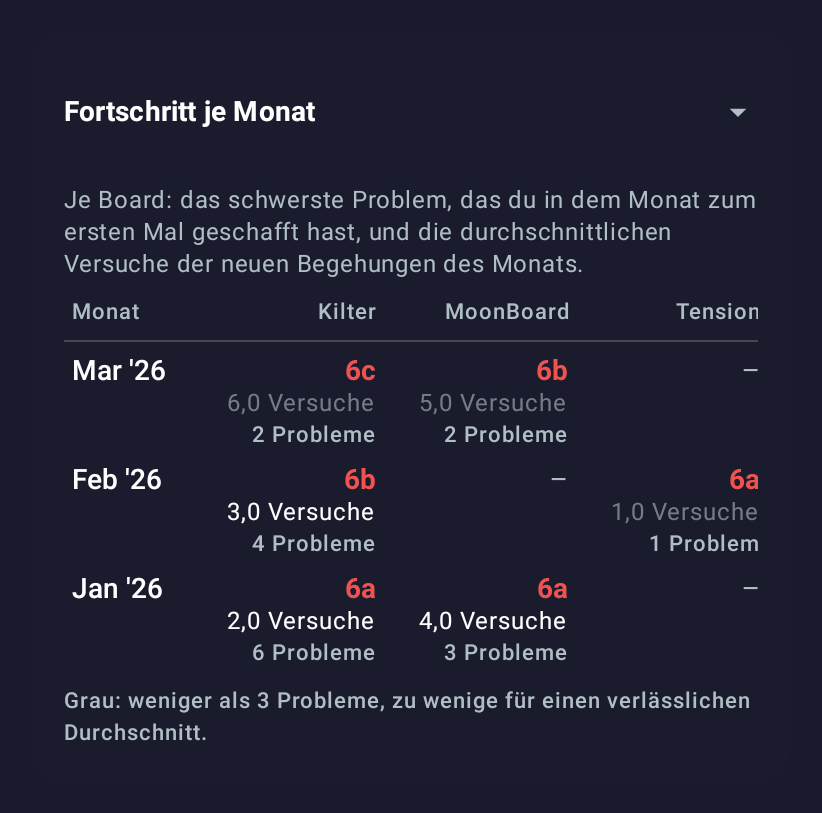
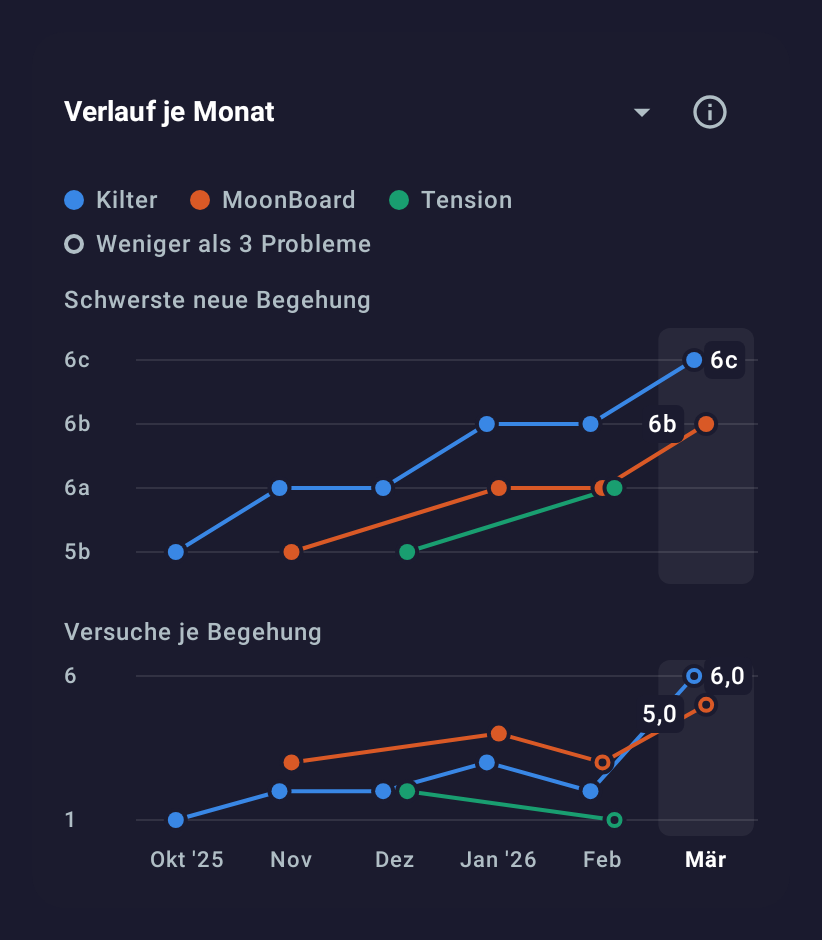
feat-0.2.5-analytics: stats across boards second version, ideas for the statistics

diff --git a/feat-0.2.5-analytics/2026-11-01-stats-across-boards.md b/feat-0.2.5-analytics/2026-11-01-stats-across-boards.md
@@ -1,23 +1,37 @@
-# Stats across boards: first version (2026-11-01)
+# Stats across boards: second version (2026-11-01)
 
-Issue: [#44 Cross-board stats](https://github.com/CruxCoach/CruxCoach/issues/44) · branch `feat/0.2.5-analytics` · draft pull request against `feat/0.2.5-release`
+Issue: [#44 Cross-board stats](https://github.com/CruxCoach/CruxCoach/issues/44) · branch `feat/0.2.5-analytics` · draft pull request [#48](https://github.com/CruxCoach/CruxCoach/pull/48) against `feat/0.2.5-release`
 
-If you log on more than one board, the logbook statistics get a new section below the charts. A selector in its title switches between two views. The stills below come from the design-review test: a German phone in the dark theme, with a made-up logbook on three boards.
+If you log on more than one board, the logbook statistics get a new section below the charts. A selector in its title switches between two views. The second version replaces the tables of the first one with charts and moves the explanations behind the info button next to the title.
 
-## Tries to send per grade
+The stills come from the design-review test: a German phone, with a made-up logbook on three boards. Further ideas for the statistics are in a [separate report](2026-11-01-stats-ideas.md).
 
-![Tries to send per grade](2026-11-01-tries-per-grade.png)
+## Tries per grade
 
-- One row per grade and one column per board.
-- Each cell shows the average tries until a problem was sent for the first time, and the number of problems behind it.
-- Averages over fewer than 3 problems are grey, because they say little.
+| Dark | A grade tapped | Light |
+|---|---|---|
+| ![Tries per grade](2026-11-01-tries-per-grade.png) | ![A grade tapped](2026-11-01-tries-per-grade-open.png) | ![Light theme](2026-11-01-tries-per-grade-light.png) |
 
-## Progress per month
+- One bar per board under each grade; its length is the average tries until the first send, the number sits at its end.
+- A board without sends at that grade gets no bar.
+- Hollow bars rest on fewer than 3 problems and say little.
+- Tap a grade to see how many problems are behind each bar.
 
-![Progress per month](2026-11-01-per-month.png)
+## Progress by month
 
-- Per month and board: the hardest problem sent for the first time that month, then the average tries of that month's new sends.
-- Newest month first.
+| Dark | Light |
+|---|---|
+| ![Progress by month](2026-11-01-per-month.png) | ![Light theme](2026-11-01-per-month-light.png) |
+
+- Two small line charts over the same months, oldest on the left: the hardest problem sent for the first time that month, and how many tries those new sends took on average.
+- The latest month is selected and its values stand beside the dots. Tap another month to see its values.
+- Hollow dots rest on fewer than 3 problems.
+
+## Design
+
+- Each board keeps one colour everywhere in the section, also when the interval hides another board. The colours stay apart for the common kinds of colour blindness and in both themes.
+- The legend sits once at the top; the hollow marker only shows up in it when the chart has such values.
+- Screen readers get every value spelled out per grade or month.
 
 ## How it counts
 
@@ -25,7 +39,7 @@ If you log on more than one board, the logbook statistics get a new section belo
 - Its tries are all attempts up to and including the first send. If you log a few attempts and then the send in one session, the app keeps them as one entry with the try count. Attempts from earlier sessions are added to it.
 - Repeats after the first send do not count. They say nothing about how hard the grade felt on that board.
 - The interval chips (30 days, 90 days, 1 year, all, custom) pick problems by the day of their first send. Tries from before the interval still count.
-- All boards in CruxCoach share one difficulty scale, so a grade means the same on every board in this table.
+- All boards in CruxCoach share one difficulty scale, so a grade means the same on every board.
 - The section ignores the board filter, like the board comparison row above it. It appears only when two boards have sends in the interval.
 - It works with the logbook you already have, without a database change.
 

diff --git a/feat-0.2.5-analytics/2026-11-01-stats-ideas.md b/feat-0.2.5-analytics/2026-11-01-stats-ideas.md
@@ -1,0 +1,75 @@
+# Ideas for the statistics (2026-11-01)
+
+Room: #feat-0.2.5-analytics · issue [#44](https://github.com/CruxCoach/CruxCoach/issues/44)
+
+Ideas for making the logbook statistics more useful and easier to read, each described by what it does. The pictures are drawings from a design test with made-up data on a German phone. They are **not in the app** and not in the pull request; they show how an idea could look.
+
+The redesigned views for #44 itself are in the [second-version report](2026-11-01-stats-across-boards.md).
+
+## The design rules behind them
+
+- Each board has one colour, the same in every chart.
+- Numbers sit at the marks; no tables and no axis you have to read off.
+- A chart explains itself with its title. The longer explanation sits behind the info button.
+- Hollow marks mean little data behind a value.
+- Tap for details instead of showing everything at once.
+
+## 1. At a glance
+
+![At a glance](2026-11-01-idea-at-a-glance.png)
+
+- Two big tiles at the top of the statistics: hardest send and hardest flash, with the board's colour dot.
+- Below: this month against last month for sends, hardest grade and tries per send, each with an arrow. Green means better, so fewer tries per send is green too.
+- The app already computes most of this; today the period comparison hides in a dropdown further down.
+- Effort: small.
+
+## 2. Tries until the send
+
+![Tries until the send](2026-11-01-idea-send-curve.png)
+
+- Per board, the share of problems you sent as a flash, on the 2nd try, 3rd try, 4th–5th and after 6 or more.
+- Counts tries across sessions, so a send after attempts on an earlier day is not a flash.
+- Shows at a glance on which board you send fast and where you work for it. Fits as a third view in the section of #44.
+- Effort: small; it uses the same counting as #44.
+
+## 3. How your boards feel
+
+![How your boards feel](2026-11-01-idea-board-feel.png)
+
+- One sentence and a scale: "MoonBoard feels about one grade harder for you than Kilter."
+- Estimated from your tries at the same grades on both boards; shown only when there is enough overlap.
+- Answers the question many people ask when they climb on several boards, for your own climbing instead of in general.
+- Effort: medium; the estimate needs care and a minimum amount of data.
+
+## 4. Open projects
+
+![Open projects](2026-11-01-idea-projects.png)
+
+- Problems you tried but have not sent yet: grade, board, tries so far, sessions, last try.
+- Sorted by the last try, so the current projects are on top. Tap to open the problem.
+- Effort: small to medium; the attempts are already in the logbook.
+
+## 5. Points per week
+
+![Points per week](2026-11-01-idea-points.png)
+
+- Every send scores by its grade, a flash a bit more. One bar per week, this week highlighted, best week marked.
+- One number that grows with both volume and difficulty, so a week of many easier sends and a week of one hard send can be compared.
+- Effort: medium; the points table needs to be decided first.
+
+## More ideas without a drawing
+
+- **Session recap**: after a session, one card with sends, flashes, tries, hardest grade and a small grade strip; shareable as an image.
+- **Project grade per board**: the grade where you usually need 3 to 6 tries, as a hint for what to try next.
+- **One grade over the months**: tries for one grade (say 6b) on each board, month by month.
+- **Milestones**: first send of a new grade, 100 sends, biggest day.
+- **Angles**: the same tries charts for 40° against 50°.
+- **Median** next to the average, so one long project does not drag a grade.
+
+## My suggestion
+
+1. Ideas 1 and 2 first: small, built on data the app already has, and they make the top of the statistics readable at a glance.
+2. Then 4 (open projects) and the session recap: they help during and right after training.
+3. Ideas 3 and 5 later: they need a decision on the estimate and the points table.
+
+Which of these go into 0.2.5 is up to the maintainer.

diff --git a/README.md b/README.md
@@ -10,4 +10,5 @@ Reports are grouped by the Buzz room they belong to: `<room>/<date>-<topic>.md`.
 - [Hold detection on synthetic walls](feat-spray-walls/2026-11-01-hold-detection.md) (2026-11-01): how the on-device hold detection for spray walls works and how well it finds holds on synthetic test walls.
 
 ### feat-0.2.5-analytics
-- [Stats across boards: first version](feat-0.2.5-analytics/2026-11-01-stats-across-boards.md) (2026-11-01): what the new section shows, how tries are counted, two stills.
+- [Stats across boards](feat-0.2.5-analytics/2026-11-01-stats-across-boards.md) (2026-11-01, second version): the redesigned charts, how tries are counted, stills in dark and light.
+- [Ideas for the statistics](feat-0.2.5-analytics/2026-11-01-stats-ideas.md) (2026-11-01): five drawn ideas and more, with a suggested order.
